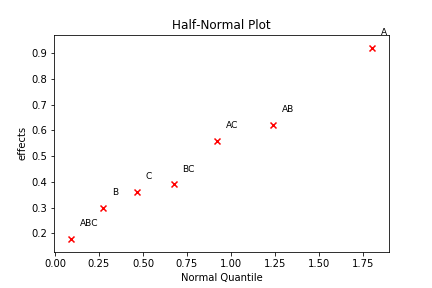
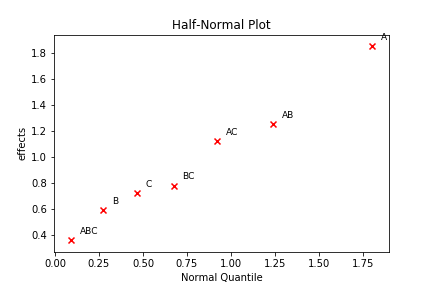
Create Function for Lenth Test

diff --git a/2k_DesignOfExp.py b/2k_DesignOfExp.py
@@ -10,7 +10,6 @@ if sys.version_info[0] < 3:
     from StringIO import StringIO
 else:
     from io import StringIO
-import statsmodels.api as sm
 import pandas as pd 
 from sklearn import linear_model
 from scipy.stats import norm
@@ -21,9 +20,12 @@ import math
 
 
 print('Current working directory ',os.getcwd())
-os.chdir('C:/Users/a-bibeka/Documents/GitHub/Python-Code-Compilation')
+#os.chdir('C:/Users/a-bibeka/Documents/GitHub/Python-Code-Compilation')
+os.chdir('/Users/Apoorb/Documents/GitHub/Python-Code-Compilation')
+ 
 print('Current working directory ',os.getcwd())
 
+# Function to plot the Half-Normal Plot
 def HalfPlt_V1(DatTemp,Theta,Var_,PltName):
     len1 =len(DatTemp[Var_])
     DatTemp['absTheta']=DatTemp[Theta].apply(abs)
@@ -42,6 +44,22 @@ def HalfPlt_V1(DatTemp,Theta,Var_,PltName):
     ax1.set_ylabel("effects")
     fig1.savefig(PltName)
 
+
+# Function to perform Lenth test
+#Lenth's Method for  testing signficance for experiments without
+# variance estimate
+def LenthsTest(dat,fef,fileNm,IER_5per=2.30):
+    len1=len(dat[fef])
+    dat['absEff']=dat[fef].apply(abs)
+    s0=1.5*statistics.median(map(float,dat['absEff']))
+    tpLst=[i for i in dat['absEff'] if i<2.5*s0]
+    PSE =1.5 * statistics.median(tpLst)
+    #Lenth's t stat
+    dat['t_PSE'] = (round(dat[fef]/PSE,2))
+    dat['IER_0.05']=[IER_5per]*len1
+    dat['Significant'] = dat.apply(lambda x : 'Significant' if abs(x['t_PSE']) > x['IER_0.05'] else "Not Significant", axis=1)
+    dat.to_csv(fileNm)
+    return(dat)
 
 data1=StringIO('''OilTemp CarbonCont TempStBfQuench PerCrackSpring
 70 0.50 1450 67
@@ -163,23 +181,14 @@ FactorialEff=Y*X_DzMat*(1/4)
 DatIndex= pd.DataFrame({'Var':['x1','x2','x3','x1x2','x1x3','x2x3','x1x2x3'],
                         'Effect':FactorialEff.tolist()[0]})
 DatIndex=DatIndex.sort_values(by=['Effect'])
+#DatIndex.reset_index(drop=True)
 Var=DatIndex['Var']
-d={'FaEff':FactorialEff.tolist()[0],'Var':Var}
+d={'FaEff':DatIndex['Effect'],'Var':Var}
 dat2=pd.DataFrame(d)
 HalfPlt_V1(dat2,'FaEff','Var','HalfPlot.png')
 
-# Lenth's Method for  testing signficance for experiments without
-# variance estimate
-s0=1.5*statistics.median(map(float,dat2['absEff']))
-tpLst=[i for i in dat2['absEff'] if i<2.5*s0]
-PSE =1.5 * statistics.median(tpLst)
-#Lenth's t stat
-DatIndex['t_PSE'] = round(DatIndex['Effect']/PSE,2)
-DatIndex['IER_0.05']=[2.30]*7
-DatIndex['Significant'] = DatIndex.apply(lambda x : 'Significant' if x['t_PSE'] > x['IER_0.05'] else "Not Significant", axis=1)
-DatIndex.to_csv("LenthTab.csv")
 
-
+LenthsTest(dat2,'FaEff',"LenthTab.csv",2.30)
 ################################################################################
 ################################################################################
 # Finding nominal the best solution
@@ -197,7 +206,7 @@ RoughDat1=pd.read_csv(RoughDat,delimiter=r"\s+",header=0)
 
 
 RoughDat1['YBar']=RoughDat1[['Yi1','Yi2','Yi3','Yi4','Yi5']].mean(axis=1)
-RoughDat1['lnsBar']=(RoughDat1[['Yi1','Yi2','Yi3','Yi4','Yi5']].std(axis=1)).apply(math.log)
+RoughDat1['lnsBar']=((RoughDat1[['Yi1','Yi2','Yi3','Yi4','Yi5']].std(axis=1))**2).apply(math.log)
 #RoughDat1['Const']=[1]*(RoughDat1.shape[0])
 RoughDat1.loc[:,'AB']=RoughDat1['A']*RoughDat1['B']
 RoughDat1.loc[:,'AC']=RoughDat1['A']*RoughDat1['C']
@@ -225,14 +234,41 @@ Theta='FactEff'
 i='i_'
 Var_='Var1'
 '''
+LenthsTest(Dat2,'FactEff',"LenthTestLoc.csv",IER_5per=2.30)
+#Only consider B and C for regresion based on Lenth Test Results
+X2= RoughDat1.loc[:,['B','C']]
+# Get the factorial effects
+M1=linear_model.LinearRegression()
+M1Sum=yBarMod.fit(X2,Ybar)
+M1Sum.intercept_
+M1Sum.coef_
 
+
+#####################
+#Dispersion Effect
+X2= RoughDat1.loc[:,['A','B','C','AB','AC','BC','ABC']]
 lnsBarMod=linear_model.LinearRegression()
 ModSum2=lnsBarMod.fit(X2,LnSBar)
 ModSum2.intercept_
 ModSum2.coef_
 FactEff2=np.round(2*ModSum2.coef_[0],2).tolist()
 Var1=['A','B','C','AB','AC','BC','ABC']
+
+
+################
+#Dispersion Effect
 Dat3=pd.DataFrame({'FactEff':FactEff2,'Var1':Var1})
 Dat3.to_excel("RoughDisperEff.xls")
-
 HalfPlt_V1(Dat3,'FactEff','Var1','HalfPlot2.png')
+LenthsTest(Dat3,'FactEff',"LenthTestDisper.csv",IER_5per=2.30)
+#Only consider B and C for regresion based on Lenth Test Results
+X2= RoughDat1.loc[:,['A']]
+# Get the factorial effects
+M2=linear_model.LinearRegression()
+M2Sum=yBarMod.fit(X2,LnSBar)
+M2Sum.intercept_
+M2Sum.coef_
+
+
+
+
